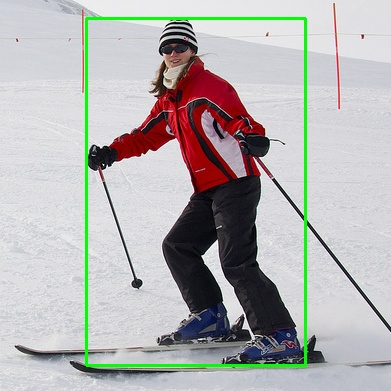
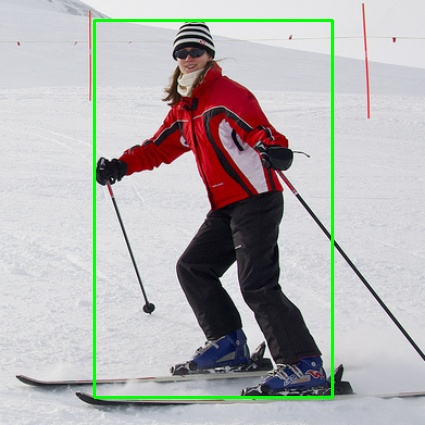
bugfix(Crop): fix visualize

diff --git a/augmentations/augmentations.py b/augmentations/augmentations.py
@@ -44,7 +44,8 @@ def Crop(image_path, gts):
     flag = ious >= 1
     bboxes_t = gts[flag]
     logging.info('crop_bboxes: {}'.format(bboxes_t))
-    
+   
+    rate = min(height / h, width / w) 
     image_t = image[crops[1]:crops[3], crops[0]:crops[2]]
     logging.info('crop_img shape: {}'.format(image_t.shape))
     bboxes_t[:, :2] = np.maximum(bboxes_t[:, :2], crops[:2])
@@ -54,8 +55,9 @@ def Crop(image_path, gts):
     logging.info('relocate: {}'.format(bboxes_t))
     
     # visualize
+    image_t = cv2.resize(image_t, None, None, fx=rate, fy=rate, interpolation=cv2.INTER_LINEAR)
     for bbox in bboxes_t:
-        bbox = list(map(int, bbox))
+        bbox = list(map(int, bbox * rate))
         cv2.rectangle(image_t, (bbox[0], bbox[1]), (bbox[2], bbox[3]), (0, 255, 0), 2)
     cv2.imwrite('crop.jpg', image_t)
     
